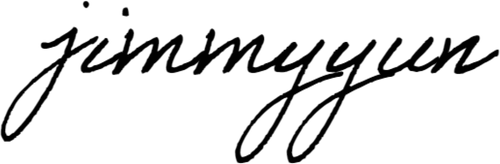
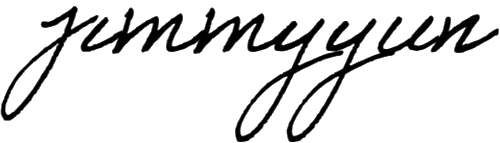
Dissolution: clean signature image and fix its placement on the By line
- Remove two stray noise specks from the signature; tight-crop to the real ink.
- Rest the stamp on the By line (bulk above it), sizing by height.
- Lower the "Authorized Person(s)" label so the signature no longer overlaps it.

Changed region(s): [[0.0, 0.0, 1.0, 1.0]]

diff --git a/server/dissolution.js b/server/dissolution.js
@@ -356,7 +356,7 @@ async function buildBlankCancellation() {
   // signature block
   draw('By:', 322, 420, 11);
   line(346, 418, 560); field('Text7', 348, 421, 212, 16, 11);
-  draw('Authorized Person(s)', 388, 405, 9);
+  draw('Authorized Person(s)', 388, 400, 9);
   draw('Name:', 322, 378, 11);
   line(360, 376, 560); field('Text8', 362, 379, 198, 16, 11, 'Jimmy Yun');
   draw('Print or Type', 396, 363, 9);
@@ -394,8 +394,12 @@ async function fillCancellation(templateBuf, f) {
         : (b[0] === 0xFF && b[1] === 0xD8) ? await pdf.embedJpg(b) : null;
       if (img) {
         const page = pdf.getPages()[0];
-        const w = 105, h = w * (img.height / img.width);
-        page.drawImage(img, { x: 356, y: 418 - h * 0.32, width: w, height: h });
+        // Rest the signature on the By line (underline at y=418), bulk above the
+        // line and clear of the "Authorized Person(s)" label below it.
+        const lineY = 418, sigX = 356, maxW = 196;
+        let sigH = 24, sigW = sigH * (img.width / img.height);
+        if (sigW > maxW) { sigW = maxW; sigH = maxW * (img.height / img.width); }
+        page.drawImage(img, { x: sigX, y: lineY - sigH * 0.16, width: sigW, height: sigH });
       }
     } catch { /* ignore signature errors */ }
   }
